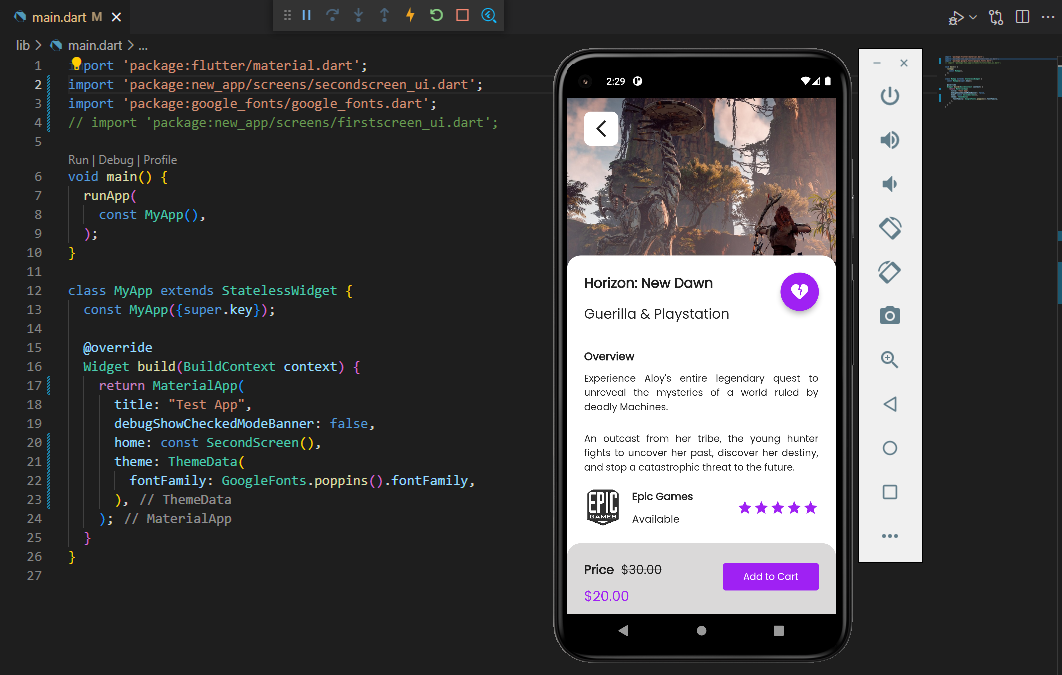
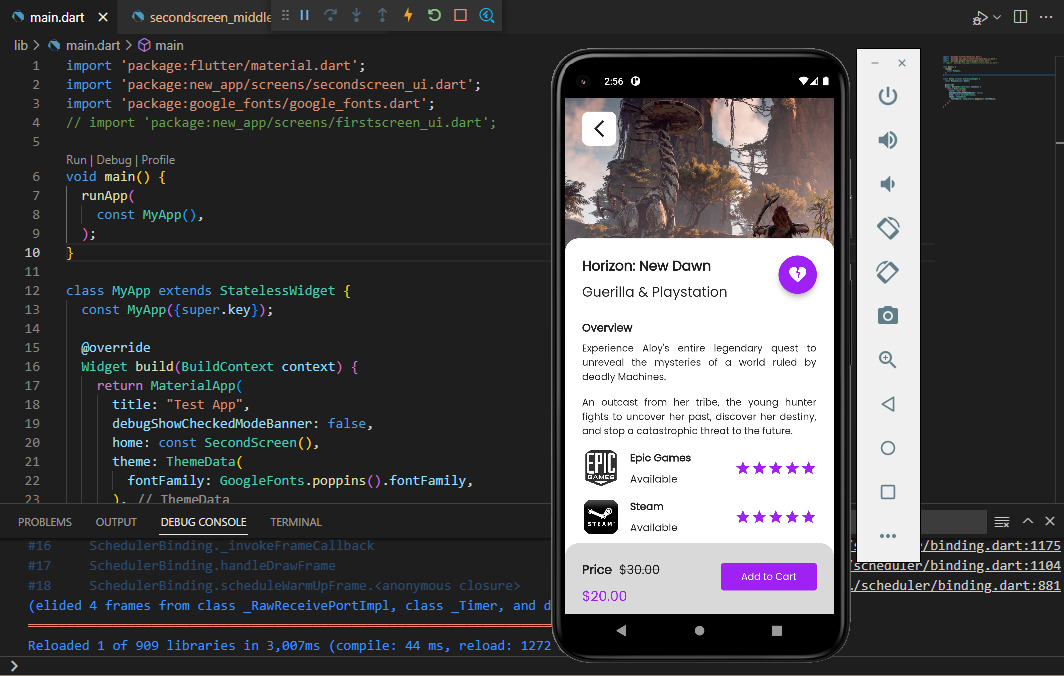
Added output images

diff --git a/lib/widgets/secondscreen_middle_widget.dart b/lib/widgets/secondscreen_middle_widget.dart
@@ -10,7 +10,7 @@ class SecondUIMiddle extends StatelessWidget {
         borderRadius: BorderRadius.only(topLeft: Radius.circular(20), topRight: Radius.circular(20)),
         color: Colors.white,
       ),
-      margin: const EdgeInsets.only(top: 230,),
+      margin: const EdgeInsets.only(top: 205,),
       padding: const EdgeInsets.all(25),
       child: Column(
         crossAxisAlignment: CrossAxisAlignment.start,
@@ -29,7 +29,7 @@ class SecondUIMiddle extends StatelessWidget {
                       fontSize: 20,
                     ),
                   ),
-                  SizedBox(height: 15,),
+                  SizedBox(height: 8,),
                   Text(
                     "Guerilla & Playstation",
                     style: TextStyle(
@@ -49,7 +49,7 @@ class SecondUIMiddle extends StatelessWidget {
               )
             ],
           ),
-          const SizedBox(height: 35,),
+          const SizedBox(height: 25,),
           const Text(
             "Overview",
             style: TextStyle(
@@ -57,7 +57,7 @@ class SecondUIMiddle extends StatelessWidget {
               fontSize: 16,
             ),
           ),
-          const SizedBox(height: 10,),
+          const SizedBox(height: 8,),
           const Text(
             """Experience Aloy's entire legendary quest to unreveal the mysteries of a world ruled by deadly Machines.""",
             textAlign: TextAlign.justify,
@@ -65,7 +65,7 @@ class SecondUIMiddle extends StatelessWidget {
               fontSize: 14,
             ),
           ),
-          const SizedBox(height: 25,),
+          const SizedBox(height: 16,),
           const Text(
             """An outcast from her tribe, the young hunter fights to uncover her past, discover her destiny, and stop a catastrophic threat to the future.""",
             textAlign: TextAlign.justify,
@@ -73,7 +73,7 @@ class SecondUIMiddle extends StatelessWidget {
               fontSize: 14,
             ),
           ),
-          const SizedBox(height: 20,),
+          const SizedBox(height: 16,),
           Row(
             mainAxisAlignment: MainAxisAlignment.spaceBetween,
             children: [
@@ -104,7 +104,7 @@ class SecondUIMiddle extends StatelessWidget {
                           fontSize: 15,
                         ),
                       ),
-                      SizedBox(height: 10,),
+                      SizedBox(height: 8,),
                       Text(
                         "Available",
                         style: TextStyle(
@@ -141,7 +141,7 @@ class SecondUIMiddle extends StatelessWidget {
               ),
             ],
           ),
-          const SizedBox(height: 20,),
+          const SizedBox(height: 16,),
           Row(
             mainAxisAlignment: MainAxisAlignment.spaceBetween,
             children: [
@@ -172,7 +172,7 @@ class SecondUIMiddle extends StatelessWidget {
                           fontSize: 15,
                         ),
                       ),
-                      SizedBox(height: 10,),
+                      SizedBox(height: 8,),
                       Text(
                         "Available",
                         style: TextStyle(
